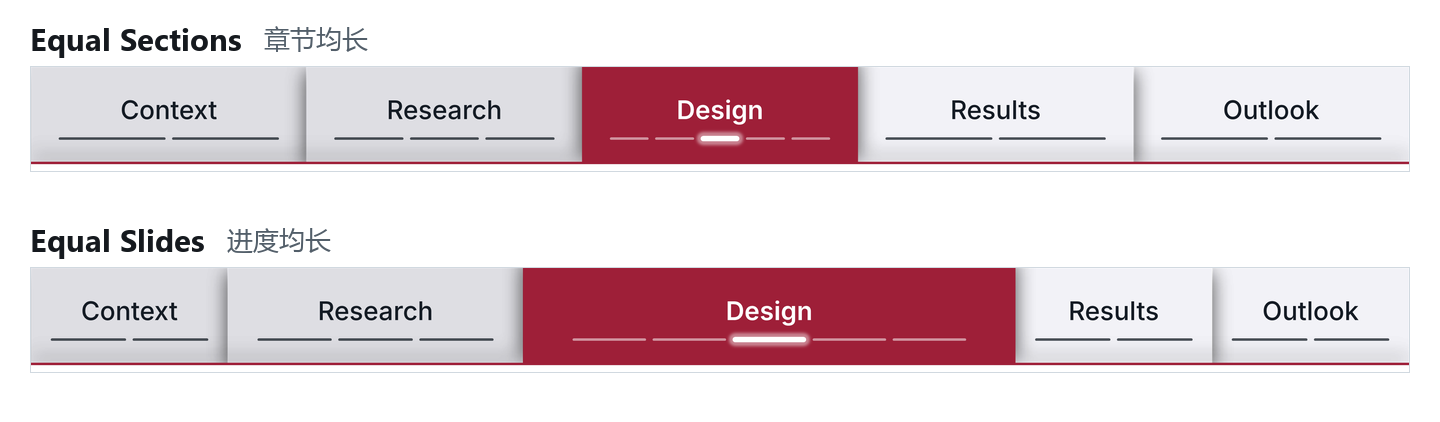
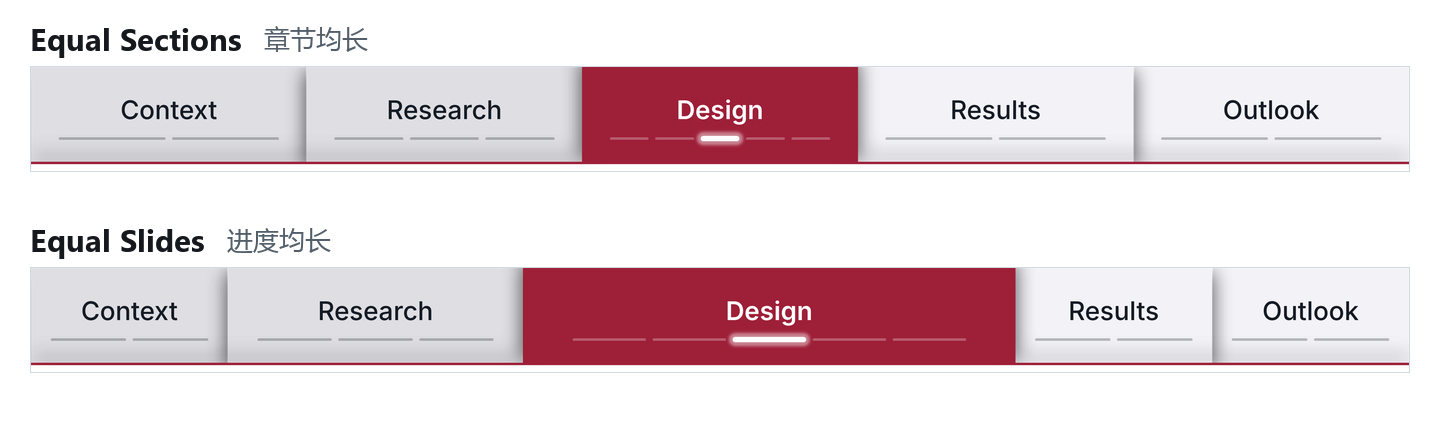
Set all inactive Crimson Layers page markers to 85% transparency

diff --git a/english_sources.py b/english_sources.py
@@ -44,7 +44,7 @@ def prepare_english(
             continue
         source = ENCODED_TEXT.sub(translate_vba, module.read_text("utf-8-sig"))
         if module.name == "mdlOptionsHandling.bas":
-            source = source.replace('" CN.11.7 32b/64b"', '" EN.11.7 32b/64b"')
+            source = source.replace('" CN.11.8 32b/64b"', '" EN.11.8 32b/64b"')
         if module.name == "basGeneral.bas":
             source = source.replace('family = "Microsoft YaHei"',
                                     'family = "Segoe UI"')
@@ -60,7 +60,7 @@ def prepare_english(
     xml.write(target / "customUI14.xml", encoding="UTF-8", xml_declaration=True)
 
     catalog = json.loads((project_dir / "styles.json").read_text("utf-8"))
-    catalog["version"] = "EN.11.7"
+    catalog["version"] = "EN.11.8"
     for style in catalog["styles"]:
         for field in ("name", "family", "description"):
             style[field] = ribbon_text[style[field]]

diff --git a/build_package.py b/build_package.py
@@ -314,7 +314,7 @@ def main():
 
         source_dir = prepare_english(source_dir, ROOT, args.output_dir / "en")
     version = args.version_token or (
-        "EN11_7" if args.language == "en" else "CN11_7"
+        "EN11_8" if args.language == "en" else "CN11_8"
     )
     base_dir = RESOURCE_ROOT / "original/ProgressIndicators_v1960_3264b"
     reports = []

diff --git a/README.md b/README.md
@@ -9,7 +9,7 @@
   <sub><a href="https://github.com/AdamWilsonLab/progress_indicators">Upstream GitHub repository (AdamWilsonLab/progress_indicators)</a> | <a href="https://datenbank-projekt.de/projekte/progress-indicator-powerpoint-2010-2013-2016-32-and-64-bit-windows-mac">Olaf Nöhring's project page</a></sub>
 </p>
 
-<p align="center"><sub>PowerPoint for Windows &nbsp;|&nbsp; EN.11.7 / CN.11.7</sub></p>
+<p align="center"><sub>PowerPoint for Windows &nbsp;|&nbsp; EN.11.8 / CN.11.8</sub></p>
 
 <img src="docs/assets/native/crimson-layers.webp" alt="Five section tabs span the slide. Design is red, and its third marker glows white." width="100%" />
 
@@ -38,8 +38,8 @@ Download the ZIP for the language you want on the PowerPoint ribbon. Both packag
 
 | Download | File to open in PowerPoint |
 | --- | --- |
-| <a href="https://github.com/GH-X-ST/PowerPoint-Progress-Indicators/releases/download/EN.11.7/ProgressIndicators-EN.11.7.zip"><picture><source media="(prefers-color-scheme: dark)" srcset="docs/assets/badges/en-dark.svg" /><source media="(prefers-color-scheme: light)" srcset="docs/assets/badges/en-light.svg" /><img src="docs/assets/badges/en-light.svg" alt="Download the English edition (ZIP)" width="164" /></picture></a> | `ProgressIndicators_v1960_3264b_SB_EN11_7.ppam` |
-| <a href="https://github.com/GH-X-ST/PowerPoint-Progress-Indicators/releases/download/CN.11.7/ProgressIndicators-CN.11.7.zip"><picture><source media="(prefers-color-scheme: dark)" srcset="docs/assets/badges/cn-dark.svg" /><source media="(prefers-color-scheme: light)" srcset="docs/assets/badges/cn-light.svg" /><img src="docs/assets/badges/cn-light.svg" alt="Download the Simplified Chinese edition (ZIP)" width="164" /></picture></a> | `ProgressIndicators_v1960_3264b_SB_CN11_7.ppam` |
+| <a href="https://github.com/GH-X-ST/PowerPoint-Progress-Indicators/releases/download/EN.11.8/ProgressIndicators-EN.11.8.zip"><picture><source media="(prefers-color-scheme: dark)" srcset="docs/assets/badges/en-dark.svg" /><source media="(prefers-color-scheme: light)" srcset="docs/assets/badges/en-light.svg" /><img src="docs/assets/badges/en-light.svg" alt="Download the English edition (ZIP)" width="164" /></picture></a> | `ProgressIndicators_v1960_3264b_SB_EN11_8.ppam` |
+| <a href="https://github.com/GH-X-ST/PowerPoint-Progress-Indicators/releases/download/CN.11.8/ProgressIndicators-CN.11.8.zip"><picture><source media="(prefers-color-scheme: dark)" srcset="docs/assets/badges/cn-dark.svg" /><source media="(prefers-color-scheme: light)" srcset="docs/assets/badges/cn-light.svg" /><img src="docs/assets/badges/cn-light.svg" alt="Download the Simplified Chinese edition (ZIP)" width="164" /></picture></a> | `ProgressIndicators_v1960_3264b_SB_CN11_8.ppam` |
 
 1. Extract the ZIP. In PowerPoint for Windows, open **File > Options > Add-ins**.
 2. At the bottom of the dialog, set **Manage** to **PowerPoint Add-ins** and click **Go**.
@@ -171,7 +171,7 @@ On a top bar, **Cropped Backdrop Text (Top) > Backdrop Text for Other Sections**
   <img src="docs/assets/native/surfaces-light.webp" alt="Three bars show separate panel shadows, large cropped names behind Research and Results, and a gradient with teal before Design and brown after." width="100%" />
 </picture>
 
-**Crimson Layers** joins the current section to a 1 pt strip. Where two sections meet, the one closer to the current section casts its shadow on the other. The current slide has a thicker marker with a glow. The other markers in the current section are 70% transparent. Earlier and later sections use the same gray backgrounds as **Light Layers**, with thin markers at 50% transparency. To adjust the strip or soften the shadows, open **Layered Navigation**. To match the lettering in the screenshot, install Inter SemiBold for the current section and Inter Medium for the others on the computers used to edit and present the slides. [Inter fonts](https://rsms.me/inter/)
+**Crimson Layers** joins the current section to a 1 pt strip. Where two sections meet, the one closer to the current section casts its shadow on the other. The current slide has a thicker marker with a glow. Every other slide marker is thin and 85% transparent, including the others in the current section. Earlier and later sections use the same gray backgrounds as **Light Layers**. To adjust the strip or soften the shadows, open **Layered Navigation**. To match the lettering in the screenshot, install Inter SemiBold for the current section and Inter Medium for the others on the computers used to edit and present the slides. [Inter fonts](https://rsms.me/inter/)
 
 <details>
 <summary>Use colors from the presentation theme</summary>
@@ -481,12 +481,12 @@ uv pip install --python .venv\Scripts\python.exe -r requirements-build.txt
 .\.venv\Scripts\python.exe build_package.py --language en --output-dir rebuild --report rebuild/package-validation.json
 ```
 
-The build creates `rebuild/ProgressIndicators_v1960_3264b_SB_EN11_7.pptm`. The English VBA and Ribbon XML are in `rebuild/en/source/` and the translated preset catalog is in `rebuild/en/styles.json`.
+The build creates `rebuild/ProgressIndicators_v1960_3264b_SB_EN11_8.pptm`. The English VBA and Ribbon XML are in `rebuild/en/source/` and the translated preset catalog is in `rebuild/en/styles.json`.
 
 To package the `.ppam`, continue in the same PowerShell window. This step uses desktop PowerPoint and needs permission to run the presentation's macros. Choose a new output file.
 
 ```powershell
-$name = 'ProgressIndicators_v1960_3264b_SB_EN11_7'
+$name = 'ProgressIndicators_v1960_3264b_SB_EN11_8'
 $sourceDeck = (Resolve-Path "rebuild\$name.pptm").Path
 $releaseDir = Join-Path (Get-Location) 'rebuild\distribution'
 $ppam = Join-Path $releaseDir "$name.ppam"

diff --git a/README.zh-CN.md b/README.zh-CN.md
@@ -9,7 +9,7 @@
   <sub><a href="https://github.com/AdamWilsonLab/progress_indicators">上游 GitHub 仓库（AdamWilsonLab/progress_indicators）</a> · <a href="https://datenbank-projekt.de/projekte/progress-indicator-powerpoint-2010-2013-2016-32-and-64-bit-windows-mac">Olaf Nöhring 的项目页</a></sub>
 </p>
 
-<p align="center"><sub>Windows 桌面版 PowerPoint &nbsp;|&nbsp; CN.11.7 / EN.11.7</sub></p>
+<p align="center"><sub>Windows 桌面版 PowerPoint &nbsp;|&nbsp; CN.11.8 / EN.11.8</sub></p>
 
 <img src="docs/assets/native/crimson-layers.webp" alt="深红层叠进度条：当前在 Design 章的第 3 页，章名下方的第三个页标发亮。" width="100%" />
 
@@ -42,8 +42,8 @@
 
 | 下载 | 解压后在 PowerPoint 中选择 |
 | --- | --- |
-| <a href="https://github.com/GH-X-ST/PowerPoint-Progress-Indicators/releases/download/CN.11.7/ProgressIndicators-CN.11.7.zip"><picture><source media="(prefers-color-scheme: dark)" srcset="docs/assets/badges/cn-dark.svg" /><source media="(prefers-color-scheme: light)" srcset="docs/assets/badges/cn-light.svg" /><img src="docs/assets/badges/cn-light.svg" alt="下载 CN.11.7 压缩包" width="164" /></picture></a> | `ProgressIndicators_v1960_3264b_SB_CN11_7.ppam` |
-| <a href="https://github.com/GH-X-ST/PowerPoint-Progress-Indicators/releases/download/EN.11.7/ProgressIndicators-EN.11.7.zip"><picture><source media="(prefers-color-scheme: dark)" srcset="docs/assets/badges/en-dark.svg" /><source media="(prefers-color-scheme: light)" srcset="docs/assets/badges/en-light.svg" /><img src="docs/assets/badges/en-light.svg" alt="下载 EN.11.7 压缩包" width="164" /></picture></a> | `ProgressIndicators_v1960_3264b_SB_EN11_7.ppam` |
+| <a href="https://github.com/GH-X-ST/PowerPoint-Progress-Indicators/releases/download/CN.11.8/ProgressIndicators-CN.11.8.zip"><picture><source media="(prefers-color-scheme: dark)" srcset="docs/assets/badges/cn-dark.svg" /><source media="(prefers-color-scheme: light)" srcset="docs/assets/badges/cn-light.svg" /><img src="docs/assets/badges/cn-light.svg" alt="下载 CN.11.8 压缩包" width="164" /></picture></a> | `ProgressIndicators_v1960_3264b_SB_CN11_8.ppam` |
+| <a href="https://github.com/GH-X-ST/PowerPoint-Progress-Indicators/releases/download/EN.11.8/ProgressIndicators-EN.11.8.zip"><picture><source media="(prefers-color-scheme: dark)" srcset="docs/assets/badges/en-dark.svg" /><source media="(prefers-color-scheme: light)" srcset="docs/assets/badges/en-light.svg" /><img src="docs/assets/badges/en-light.svg" alt="下载 EN.11.8 压缩包" width="164" /></picture></a> | `ProgressIndicators_v1960_3264b_SB_EN11_8.ppam` |
 
 1. 在 Windows 桌面版 PowerPoint 中打开 **文件 > 选项 > 加载项**。
 2. 在窗口底部的 **管理** 列表中选择 **PowerPoint 加载项**，点击 **转到**。如果列表里已启用旧版或另一种语言的版本，先取消勾选。
@@ -142,7 +142,7 @@
   <img src="docs/assets/native/surfaces-light.webp" alt="独立章节阴影、裁切背景字、两侧渐变的对照。背景字示例中 Research 和 Results 的大字只显示在各自色块里。" width="100%" />
 </picture>
 
-页首的 **深红层叠** 将当前章和底部的红色连接条连成一体。相邻的色块逐层相叠，越靠近当前章就越靠前。当前章名用 Inter SemiBold，其他章名用 Inter Medium。当前页的标记较厚，带有辉光。当前章的其他页标是细条，透明度为 70%。已讲和未讲章节沿用**轻盈层次**的两种灰色底色，页标透明度为 50%。在制作和放映电脑上都安装这两种字重，才能看到预设原有的字形。[下载 Inter](https://rsms.me/inter/)
+页首的 **深红层叠** 将当前章和底部的红色连接条连成一体。相邻的色块逐层相叠，越靠近当前章就越靠前。当前章名用 Inter SemiBold，其他章名用 Inter Medium。当前页的标记较厚，带有辉光。其余页标都是细条，透明度统一为 85%，包括当前章内的其他页。已讲和未讲章节沿用**轻盈层次**的两种灰色底色。在制作和放映电脑上都安装这两种字重，才能看到预设原有的字形。[下载 Inter](https://rsms.me/inter/)
 
 <details>
 <summary>给当前章加一道线，或在相邻章节之间加分隔线</summary>
@@ -501,10 +501,10 @@ VBA 模块、窗体和功能区 XML 在 `source/` 中。修改预设参数时，
 ```powershell
 uv venv --python 3.12 .venv
 uv pip install --python .venv\Scripts\python.exe -r requirements-build.txt
-.\.venv\Scripts\python.exe build_package.py --output-dir rebuild --version-token CN11_7 --report rebuild\package-validation.json
+.\.venv\Scripts\python.exe build_package.py --output-dir rebuild --version-token CN11_8 --report rebuild\package-validation.json
 ```
 
-输出文件是 `rebuild/ProgressIndicators_v1960_3264b_SB_CN11_7.pptm`。要得到可安装的 `.ppam`，用发布脚本调用 Windows 桌面版 PowerPoint 另存这份文稿。[中文版构建与发布说明](BUILD_zh-CN.txt)
+输出文件是 `rebuild/ProgressIndicators_v1960_3264b_SB_CN11_8.pptm`。要得到可安装的 `.ppam`，用发布脚本调用 Windows 桌面版 PowerPoint 另存这份文稿。[中文版构建与发布说明](BUILD_zh-CN.txt)
 
 <a id="license"></a>
 <a id="许可证与署名"></a>

diff --git a/THIRD_PARTY_NOTICES.en.md b/THIRD_PARTY_NOTICES.en.md
@@ -6,6 +6,6 @@ This project is based on Progress Indicator 1.960. Its MIT License preserves the
 
 ## FatCow Farm-Fresh Web Icons
 
-Copyright (C) 2009-2014 FatCow Web Hosting. The upstream author credits FatCow for most of the Ribbon icons. EN.11.7 includes the icons embedded in the upstream PowerPoint templates. FatCow's Farm-Fresh Web Icons use the **Creative Commons Attribution 3.0 United States (CC BY 3.0 US)** license. [FatCow icon page](http://www.fatcow.com/free-icons) | [CC BY 3.0 US legal code](https://creativecommons.org/licenses/by/3.0/us/legalcode)
+Copyright (C) 2009-2014 FatCow Web Hosting. The upstream author credits FatCow for most of the Ribbon icons. EN.11.8 includes the icons embedded in the upstream PowerPoint templates. FatCow's Farm-Fresh Web Icons use the **Creative Commons Attribution 3.0 United States (CC BY 3.0 US)** license. [FatCow icon page](http://www.fatcow.com/free-icons) | [CC BY 3.0 US legal code](https://creativecommons.org/licenses/by/3.0/us/legalcode)
 
 FatCow's original terms describe use in personal and commercial software, websites, and templates and request a link to the icon source in the software or website credits. They also list restrictions on reselling, sublicensing, renting, transferring, or otherwise making the icons available for others to use. [Archived FatCow terms of use](https://web.archive.org/web/20190416064342/https://www.fatcow.com/free-icons) | [Mirror of the notice distributed with the icon set](https://raw.githubusercontent.com/gammasoft/fatcow/master/readme-fatcow.txt)

diff --git a/THIRD_PARTY_NOTICES.md b/THIRD_PARTY_NOTICES.md
@@ -6,6 +6,6 @@
 
 ## FatCow Farm-Fresh Web Icons
 
-© 2009–2014 FatCow Web Hosting. 上游作者说明，功能区的大部分图标取自 FatCow。CN.11.7 沿用了上游模板中嵌入的图标。FatCow 的 Farm-Fresh Web Icons 使用 **Creative Commons Attribution 3.0 United States (CC BY 3.0 US)** 许可。[FatCow 图标原页](http://www.fatcow.com/free-icons) · [许可全文](https://creativecommons.org/licenses/by/3.0/us/legalcode)
+© 2009–2014 FatCow Web Hosting. 上游作者说明，功能区的大部分图标取自 FatCow。CN.11.8 沿用了上游模板中嵌入的图标。FatCow 的 Farm-Fresh Web Icons 使用 **Creative Commons Attribution 3.0 United States (CC BY 3.0 US)** 许可。[FatCow 图标原页](http://www.fatcow.com/free-icons) · [许可全文](https://creativecommons.org/licenses/by/3.0/us/legalcode)
 
 FatCow 原网页说明，图标可用于个人及商业软件、网站和模板，并要求在软件或网站的致谢处链接图标来源。同一页还列明不得转售、再许可、出租、转让图标，或以其他方式提供图标供人使用。[FatCow 官网存档中的 Terms of Use](https://web.archive.org/web/20190416064342/https://www.fatcow.com/free-icons) · [图标包随附说明的镜像](https://raw.githubusercontent.com/gammasoft/fatcow/master/readme-fatcow.txt)
